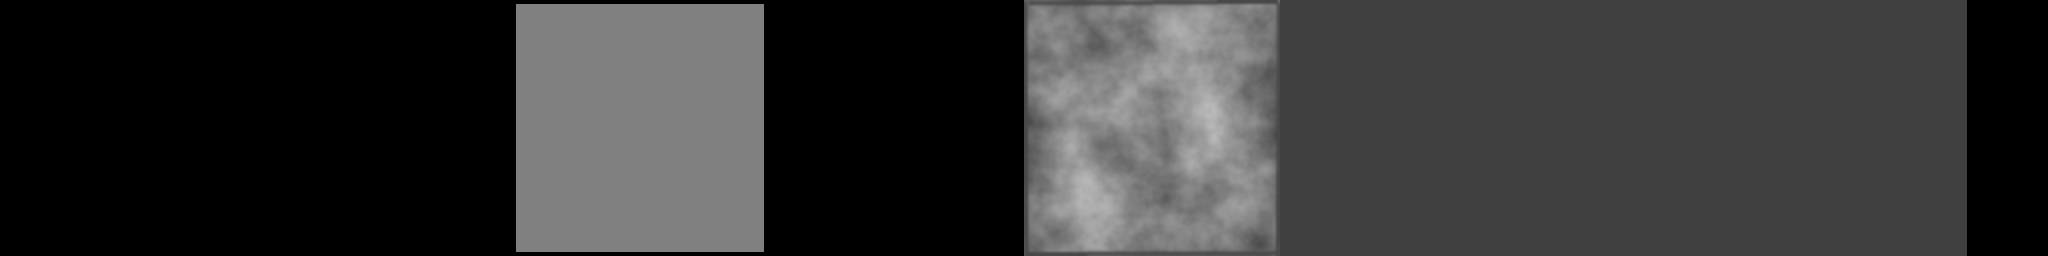
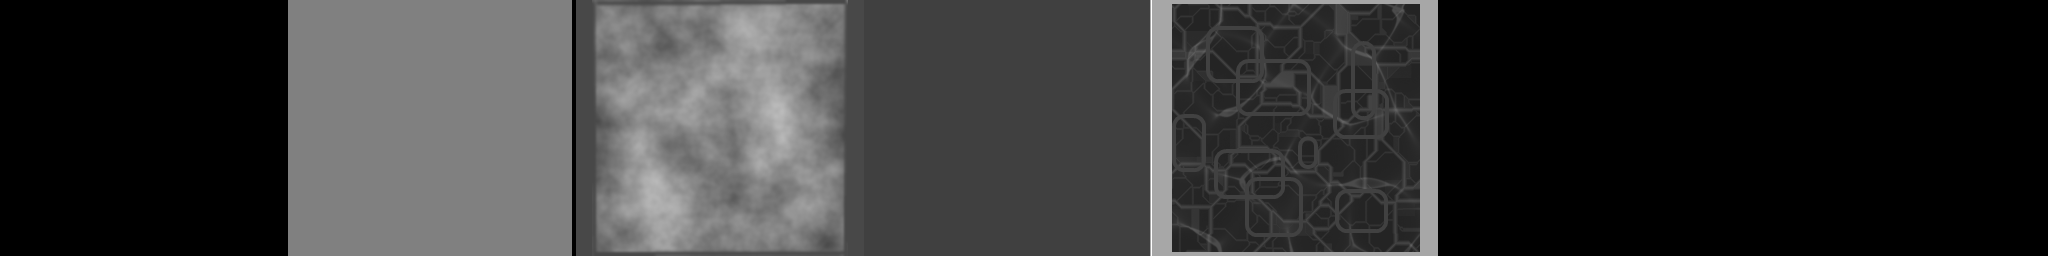
more fluid physics. placeholder art for shock fluid

diff --git a/game/worldmap.cpp b/game/worldmap.cpp
@@ -1955,8 +1955,8 @@ void WorldMap::PrepGrid( const SpaceTree* spaceTree )
 	// HARDCODE black magic values.
 	static const float du = 0.25;
 	static const float dv = 0.125;
-	#define BLACKMAG_X(x)	float( double(x*256 + x*32 + 16) / 1024.0)
-	#define BLACKMAG_Y(y)   float( 0.875 - double(y*256 + y*32 + 16) / 2048.0)
+	#define BLACKMAG_X(x)	float( double(x*288 + 16) / 1024.0)
+	#define BLACKMAG_Y(y)   float( 0.875 - double(y*288 + 16) / 2048.0)
 
 	static const int NUM = WorldGrid::NUM_LAYERS + (WorldGrid::NUM_PAVE-1) + WorldGrid::NUM_PORCH;
 	static const Vector2F UV[NUM] = {
@@ -2034,30 +2034,36 @@ void WorldMap::PrepGrid( const SpaceTree* spaceTree )
 	}
 	gridVertexVBO->Upload( voxelBuffer.Mem(), voxelBuffer.Size()*sizeof(Vertex), 0 );
 	nGrids = voxelBuffer.Size() / 4;
+#undef BLACKMAG_X
 }
 
 
 Vertex* WorldMap::PushVoxelQuad( int id, const Vector3F& normal )
 {
 	Vertex* vArr = voxelBuffer.PushArr( 4 );
-	const float u = 2.0f*(float)id / 8.0f;
-	static const float du = 0.125f;
 
-	vArr[0].tex.Set( u, 0 );
-	vArr[1].tex.Set( u, 1 );
-	vArr[2].tex.Set( u+du, 1 );
-	vArr[3].tex.Set( u+du, 0 );
+	// HARDCODE black magic values.
+	static const float du = 0.125;
+	#define BLACKMAG_X(x)	float( double(x*288 + 16) / 2048.0)
+
+	float u = BLACKMAG_X(id);
+
+	vArr[0].tex.Set(u, 0);
+	vArr[1].tex.Set(u, 1);
+	vArr[2].tex.Set(u + du, 1);
+	vArr[3].tex.Set(u + du, 0);
 
 	for( int i=0; i<4; ++i ) {
 		vArr[i].normal = normal;
 		vArr[i].boneID = 0;
 	}
 	return vArr;
+#undef BLACKMAG_X
 }
 
 void WorldMap::PushVoxel( int id, float x, float z, float h, const float* walls )
 {
-	Vertex* v = PushVoxelQuad( id, V3F_UP );
+	Vertex* v = PushVoxelQuad(id, V3F_UP);
 	v[0].pos.Set( x, h, z );
 	v[1].pos.Set( x, h, z+1.f );
 	v[2].pos.Set( x+1.f, h, z+1.f );

diff --git a/game/gamemovecomponent.cpp b/game/gamemovecomponent.cpp
@@ -45,6 +45,7 @@ int GameMoveComponent::DoTick(U32 delta)
 		pos.z = pos2.y;
 	}
 
+	velocity = (pos - start) * (1000.0f / float(delta));
 	if (start != pos) {
 		sc->SetPosition(pos);
 		return 0;
@@ -99,35 +100,6 @@ bool GameMoveComponent::ApplyFluid(U32 delta, grinliz::Vector3F* pos, bool* floa
 		grad = grad + delta * v;
 	}
 
-	/*
-	float v0 = wg[0].FluidHeight();
-	float vPos1 = wg[1].IsFluid() ? wg[1].FluidHeight() : v0;
-	float vNeg1 = wg[3].IsFluid() ? wg[3].FluidHeight() : v0;
-	grad.x = ((vPos1 - v0) + (v0 - vNeg1)) * 0.5f;
-
-	vPos1 = wg[2].IsFluid() ? wg[2].FluidHeight() : v0;
-	vNeg1 = wg[4].IsFluid() ? wg[4].FluidHeight() : v0;
-	grad.y = ((vPos1 - v0) + (v0 - vNeg1)) * 0.5f;
-	*/
-	/*
-	float dx = pos->x - (float(pos2i.x) + 0.5f);
-	float dy = pos->z - (float(pos2i.y) + 0.5f);
-
-	float a, b, c;
-	float v0 = wg[0].FluidHeight();
-	float vPos1 = wg[1].IsFluid() ? wg[1].FluidHeight() : v0;
-	float vNeg1 = wg[3].IsFluid() ? wg[3].FluidHeight() : v0;
-	
-	// a2v + bv + c
-	QuadCurveFit11(vNeg1, wg[0].FluidHeight(), vPos1, &a, &b, &c);
-	// 1st deriv: 2av + b
-	grad.x = 2.0f*a*dx + b;
-
-	vPos1 = wg[2].IsFluid() ? wg[2].FluidHeight() : v0;
-	vNeg1 = wg[4].IsFluid() ? wg[4].FluidHeight() : v0;
-	QuadCurveFit11(vNeg1, v0, vPos1, &a, &b, &c);
-	grad.y = 2.0f*a*dy + b;
-	*/
 	// Floating??
 	*floating = false;
 	float h = 0;

diff --git a/game/gamemovecomponent.h b/game/gamemovecomponent.h
@@ -30,7 +30,7 @@ private:
 	typedef MoveComponent super;
 
 public:
-	GameMoveComponent()				{}
+	GameMoveComponent()				{ velocity.Zero(); }
 	virtual ~GameMoveComponent()	{}
 
 	virtual const char* Name() const { return "GameMoveComponent"; }
@@ -40,6 +40,7 @@ public:
 	virtual bool ShouldAvoid() const			{ return false; }	// FIXME: base on mass, or item properties??
 	virtual void Serialize( XStream* xs );
 	virtual int DoTick( U32 delta );
+	virtual grinliz::Vector3F Velocity()		{ return velocity; }
 
 protected:
 	// Apply fluid effects
@@ -49,6 +50,9 @@ protected:
 	bool ApplyFluid(U32 delta, grinliz::Vector3F* pos, bool* floating);
 	// Keep from hitting world objects.
 	void ApplyBlocks( grinliz::Vector2F* pos, bool* forceApplied );
+
+private:
+	grinliz::Vector3F velocity;
 };
 
 

diff --git a/game/physicsmovecomponent.h b/game/physicsmovecomponent.h
@@ -38,7 +38,7 @@ public:
 	virtual void OnRemove();
 	virtual int DoTick( U32 delta );
 	virtual bool IsMoving() const;
-	virtual void CalcVelocity( grinliz::Vector3F* v )	{ *v = velocity; }
+	virtual grinliz::Vector3F Velocity( grinliz::Vector3F* v )	{ return velocity; }
 
 	void Set( const grinliz::Vector3F& _velocity, float _rotation );
 	void Add( const grinliz::Vector3F& _velocity, float _rotation );
@@ -69,7 +69,7 @@ public:
 	virtual void Serialize( XStream* xs );
 	virtual int  DoTick( U32 since );
 	virtual bool IsMoving();
-	virtual void CalcVelocity( grinliz::Vector3F* v );
+	virtual grinliz::Vector3F Velocity();
 
 	void SetTarget( int chitID )				{ target = chitID; }
 	virtual bool ShouldAvoid() const			{ return false; }

diff --git a/game/physicsmovecomponent.cpp b/game/physicsmovecomponent.cpp
@@ -146,20 +146,21 @@ void TrackingMoveComponent::Serialize( XStream* xs )
 }
 
 
-void TrackingMoveComponent::CalcVelocity( grinliz::Vector3F* v )
+Vector3F TrackingMoveComponent::Velocity()
 {
-	v->Zero();
+	Vector3F v = { 0, 0, 0 };
 
 	Chit* chit = Context()->chitBag->GetChit( target );
 	if ( !chit || !chit->GetSpatialComponent() || !parentChit->GetSpatialComponent() ) 
-		return;
+		return v;
 
 	Vector3F targetPos = chit->GetSpatialComponent()->GetPosition();
 	Vector3F pos = parentChit->GetSpatialComponent()->GetPosition();
 
 	Vector3F delta = targetPos - pos;
 	delta.Normalize();
-	*v = delta * TRACK_SPEED;
+	v = delta * TRACK_SPEED;
+	return v;
 }
 
 

diff --git a/xegame/component.h b/xegame/component.h
@@ -118,10 +118,12 @@ public:
 	virtual TrackingMoveComponent*	ToTrackingMoveComponent()	{ return 0; }
 	virtual GridMoveComponent*		ToGridMoveComponent()		{ return 0; }
 
-	virtual bool IsMoving() const				{ return false; }
 	// approximate, may lag, etc. useful for AI
-	virtual void CalcVelocity( grinliz::Vector3F* v ) { v->Set( 0,0,0 ); }
+	virtual grinliz::Vector3F Velocity() = 0;
+	bool IsMoving()								{ return Velocity().LengthSquared() > 0; }
 	virtual bool ShouldAvoid() const			{ return true; }
+
+protected:
 };
 
 

diff --git a/game/gridmovecomponent.h b/game/gridmovecomponent.h
@@ -39,7 +39,7 @@ public:
 	virtual void OnRemove();
 	virtual int DoTick( U32 delta );
 	virtual bool IsMoving() const;
-	virtual void CalcVelocity( grinliz::Vector3F* v ) { *v = velocity; }
+	virtual grinliz::Vector3F Velocity() { return velocity; }
 
 	void SetDest( const SectorPort& sp );
 	// Always does; may need to restore as an option.
@@ -55,7 +55,6 @@ private:
 	};
 	int					state;
 	SectorPort			destSectorPort;
-	//bool				deleteWhenDone;
 	float				speed;
 
 	// Not serialized:

diff --git a/scenes/battletestscene.cpp b/scenes/battletestscene.cpp
@@ -394,7 +394,7 @@ Chit* BattleTestScene::CreateChit( const Vector2I& p, int type, int loadout, int
 		// The avoider only avoids things with move components. Makes sense and yet
 		// stretches this. (Note: BLOCKS are an entirely different matter. The pather
 		// handles those just fine.)
-		chit->Add( new MoveComponent());
+		chit->Add( new GameMoveComponent());
 	}
 	AIComponent* ai = new AIComponent();
 	ai->SetSectorAwareness( true );

diff --git a/game/pathmovecomponent.cpp b/game/pathmovecomponent.cpp
@@ -98,13 +98,14 @@ float GameMoveComponent::Speed() const
 }
 
 
-void PathMoveComponent::CalcVelocity( grinliz::Vector3F* v )
+Vector3F PathMoveComponent::Velocity()
 {
-	v->Zero();
+	Vector3F v = { 0, 0, 0 };
 	SpatialComponent* spatial = parentChit->GetSpatialComponent();
 	if ( spatial && this->IsMoving() ) {
-		*v = spatial->GetHeading() * Speed();
+		v = spatial->GetHeading() * Speed();
 	}
+	return v;
 }
 
 

diff --git a/game/pathmovecomponent.h b/game/pathmovecomponent.h
@@ -55,7 +55,7 @@ public:
 	virtual void OnChitMsg( Chit* chit, const ChitMsg& msg );
 	virtual bool ShouldAvoid() const			{ return true; }
 
-	virtual void CalcVelocity( grinliz::Vector3F* v );
+	virtual grinliz::Vector3F Velocity();
 
 	void QueueDest( const grinliz::Vector2F& dest,
 					const grinliz::Vector2F* heading=0,	// if !zero, the rotation we wish to get to

diff --git a/xegame/componentfactory.cpp b/xegame/componentfactory.cpp
@@ -71,6 +71,9 @@ Component* ComponentFactory::Factory( const char* _name, const ChitContext* cont
 	else if ( name == "GridMoveComponent" ) {
 		return glnew GridMoveComponent();
 	}
+	else if (name == "GameMoveComponent") {
+		return glnew GameMoveComponent();
+	}
 	else if ( name == "VisitorStateComponent" ) {
 		return glnew VisitorStateComponent();
 	}

diff --git a/script/battlemechanics.cpp b/script/battlemechanics.cpp
@@ -451,7 +451,7 @@ Vector3F BattleMechanics::ComputeLeadingShot( Chit* origin, Chit* target, Vector
 	}
 
 	if ( target->GetMoveComponent() ) {
-		target->GetMoveComponent()->CalcVelocity( &v );
+		v = target->GetMoveComponent()->Velocity();
 	}
 
 	GameItem* item = origin->GetItem();
